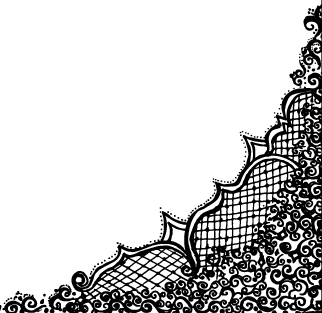
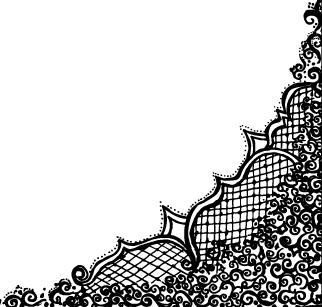
Make products page responsive, show loaders in admin page.

Changed region(s): [[0.0311, 0.0, 1.0, 0.9967]]

diff --git a/src/app/admin/products/admin-product-details/admin-product-details.component.html b/src/app/admin/products/admin-product-details/admin-product-details.component.html
@@ -1,42 +1,45 @@
-<div *ngIf="product" class="box-with-shadow product-details-wrapper">
-  <table>
-    <tr>
-      <th>Brand</th>
-      <td>{{product.brand}}</td>
-    </tr>
-    <tr>
-      <th>Category</th>
-      <td>{{product.subcategory.category.name}}</td>
-    </tr>
-    <tr>
-      <th>Subcategory</th>
-      <td>{{product.subcategory.name}}</td>
-    </tr>
-    <tr>
-      <th>Description</th>
-      <td>{{product.description}}</td>
-    </tr>
-    <tr>
-    <tr>
-      <th>Material</th>
-      <td>{{product.material}}</td>
-    </tr>
-    <tr>
-      <th>Price</th>
-      <td>${{product.price}}</td>
-    </tr>
-    <tr>
-      <th>Price with Discount</th>
-      <td><span *ngIf="product.discount">${{product.discount}}</span><span *ngIf="!product.discount">-</span></td>
-    </tr>
-  </table>
-  <div class="btn-container">
-    <div class="btn-wrapper">
-      <app-button [text]="'Change'" routerLink="./change"></app-button>
+<div class="box-with-shadow product-details-wrapper">
+  <app-spinner *ngIf="loading"></app-spinner>
+  <ng-container *ngIf="!loading">
+    <table>
+      <tr>
+        <th>Brand</th>
+        <td>{{product.brand}}</td>
+      </tr>
+      <tr>
+        <th>Category</th>
+        <td>{{product.subcategory.category.name}}</td>
+      </tr>
+      <tr>
+        <th>Subcategory</th>
+        <td>{{product.subcategory.name}}</td>
+      </tr>
+      <tr>
+        <th>Description</th>
+        <td>{{product.description}}</td>
+      </tr>
+      <tr>
+      <tr>
+        <th>Material</th>
+        <td>{{product.material}}</td>
+      </tr>
+      <tr>
+        <th>Price</th>
+        <td>${{product.price}}</td>
+      </tr>
+      <tr>
+        <th>Price with Discount</th>
+        <td><span *ngIf="product.discount">${{product.discount}}</span><span *ngIf="!product.discount">-</span></td>
+      </tr>
+    </table>
+    <div class="btn-container">
+      <div class="btn-wrapper">
+        <app-button [text]="'Change'" routerLink="./change"></app-button>
+      </div>
+      <div class="btn-wrapper">
+        <app-button [text]="'Delete'" routerLink="./delete"></app-button>
+      </div>
     </div>
-    <div class="btn-wrapper">
-      <app-button [text]="'Delete'" routerLink="./delete"></app-button>
-    </div>
-  </div>
+  </ng-container>
 </div>
 

diff --git a/src/app/admin/products/admin-products/admin-products.component.html b/src/app/admin/products/admin-products/admin-products.component.html
@@ -1,21 +1,22 @@
 <div class="products-box box-with-shadow">
-  <table>
-    <tr>
-      <th class="image">Image</th>
-      <th class="brand">Brand</th>
-      <th class="category">Category</th>
-      <th class="subcategory">Subcategory</th>
-      <th class="price">Price</th>
-      <th class="discount">With Discount</th>
-      <th class="quantity">Quantity</th>
-    </tr>
-    <ng-container *ngIf="products.length">
-      <tr app-admin-product *ngFor="let product of products | paginate: { itemsPerPage: itemsPerPage, currentPage: page, totalItems: totalAmount }"
-          [product]="product"
-          (click)="openProductDetails(product.id)"></tr>
-    </ng-container>
-  </table>
-  <pagination-controls *ngIf="totalAmountStockProducts > itemsPerPage" (pageChange)="pageChanged($event)"></pagination-controls>
-  <a class="btn-add" (click)="onEditProduct()"><i class="material-icons">add</i></a>
+    <table>
+      <tr>
+        <th class="image">Image</th>
+        <th class="brand">Brand</th>
+        <th class="category">Category</th>
+        <th class="subcategory">Subcategory</th>
+        <th class="price">Price</th>
+        <th class="discount">With Discount</th>
+        <th class="quantity">Quantity</th>
+      </tr>
+      <ng-container *ngIf="products.length && !loading">
+        <tr app-admin-product *ngFor="let product of products | paginate: { itemsPerPage: itemsPerPage, currentPage: page, totalItems: totalAmount }"
+            [product]="product"
+            (click)="openProductDetails(product.id)"></tr>
+      </ng-container>
+      <app-spinner *ngIf="loading"></app-spinner>
+    </table>
+    <pagination-controls *ngIf="totalAmountStockProducts > itemsPerPage" (pageChange)="pageChanged($event)"></pagination-controls>
+    <a class="btn-add" (click)="onEditProduct()"><i class="material-icons">add</i></a>
 </div>
 

diff --git a/src/app/UI/loader/loader.component.ts b/src/app/UI/loader/loader.component.ts
@@ -1,4 +1,4 @@
-import { Component, OnInit, OnDestroy, AfterViewInit } from '@angular/core';
+import { Component, OnInit, OnDestroy } from '@angular/core';
 import { Subscription } from 'rxjs';
 
 import { LoaderService } from './loader.service';
@@ -9,7 +9,7 @@ import { LoaderState } from './loader';
   templateUrl: './loader.component.html',
   styleUrls: ['./loader.component.scss']
 })
-export class LoaderComponent implements OnInit, OnDestroy, AfterViewInit {
+export class LoaderComponent implements OnInit, OnDestroy {
 
   show = false;
 
@@ -18,11 +18,7 @@ export class LoaderComponent implements OnInit, OnDestroy, AfterViewInit {
   constructor(private loaderService: LoaderService) { }
 
   ngOnInit() {
-
-  }
-
-  ngAfterViewInit() {
-     this.subscription = this.loaderService.loaderState
+  this.subscription = this.loaderService.loaderState
     .subscribe((state: LoaderState) => {
       setTimeout(() => {
         this.show = state.show;

diff --git a/src/app/shop/products/products.component.scss b/src/app/shop/products/products.component.scss
@@ -1,16 +1,14 @@
 .wrapper {
   display: flex;
   width: 100%;
-  margin-top: 70px;
-  margin-left: 30px;
+  margin-top: 50px;
   .content-wrapper {
     width: calc(100% - 200px);
     text-align: center;
-    margin-right: 40px;
     .content {
       width: 100%;
       display: grid;
-      grid-template-columns: repeat(auto-fill, minmax(210px, 1fr));
+      grid-template-columns: repeat(auto-fill, minmax(190px, 1fr));
       grid-template-rows: auto [last-line];
       font-family: 'goudy_old_stylebold_italic';
     }
@@ -37,8 +35,20 @@
         box-shadow: 0 3px 1px -2px rgba(0,0,0,.2), 0 2px 2px 0 rgba(0,0,0,.14), 0 1px 5px 0 rgba(0,0,0,.12);
       }
     }
-
   }
-
 }
 
+@media screen and (max-width:768px){
+  .wrapper {
+    flex-direction: column;
+    .content-wrapper {
+      width: 100%;
+    }
+  }
+}
+
+@media screen and (max-width:450px){
+  .wrapper {
+    align-items: center;
+  }
+}

diff --git a/src/app/navbar/navbar.component.ts b/src/app/navbar/navbar.component.ts
@@ -46,7 +46,10 @@ export class NavbarComponent implements OnInit, OnDestroy, AfterViewInit {
               private store: Store<fromRoot.AppState>) {}
 
   ngOnInit() {
-    this.getCurrentUser();
+     this.authService.tokenVerify().subscribe((res) => {
+      this.imageUrl = res['user']['image'];
+      this.username = res['user']['email'].substring(0, res['user']['email'].lastIndexOf('@'));
+    });
     this.subscription = this.storageService.watchStorage().subscribe(() => {
         this.getCurrentUser();
     });
@@ -82,7 +85,6 @@ export class NavbarComponent implements OnInit, OnDestroy, AfterViewInit {
 
   getCurrentUser() {
     this.imageUrl = this.authService.getUserImage();
-    this.username = this.authService.getUsername();
   }
 
   openModalRegister() {

diff --git a/src/app/admin/products/admin-products/admin-products.component.ts b/src/app/admin/products/admin-products/admin-products.component.ts
@@ -16,6 +16,7 @@ export class AdminProductsComponent implements OnInit,OnDestroy {
   products: any[];
   order:string = 'desc';
   totalAmountStockProducts: number;
+  loading:boolean;
   constructor(private store: Store<fromRoot.AppState>,
               private router: Router, private route:ActivatedRoute) {
   }
@@ -26,6 +27,7 @@ export class AdminProductsComponent implements OnInit,OnDestroy {
     this.store.pipe(select(fromRoot.getProducts)).pipe(
       untilComponentDestroyed(this)
     ).subscribe((state) => {
+      this.loading = state.fetchProductsFromStockLoading;
       this.products = state.productsFromStock;
       this.totalAmountStockProducts = state.totalAmount;
     });

diff --git a/src/app/admin/products/admin-product-details/admin-product-details.component.ts b/src/app/admin/products/admin-product-details/admin-product-details.component.ts
@@ -12,6 +12,7 @@ import {untilComponentDestroyed} from "@w11k/ngx-componentdestroyed";
 })
 export class AdminProductDetailsComponent implements OnInit, OnDestroy {
   product: any;
+  loading: boolean;
   constructor(private store: Store<fromRoot.AppState>, private route:ActivatedRoute) { }
 
   ngOnInit() {
@@ -22,6 +23,7 @@ export class AdminProductDetailsComponent implements OnInit, OnDestroy {
     this.store.pipe(select(fromRoot.getProducts)).pipe(
       untilComponentDestroyed(this)
     ).subscribe((state) => {
+      this.loading = state.productDetailsLoading;
       this.product = state.product;
     });
   }

diff --git a/src/app/UI/corners/corners.component.scss b/src/app/UI/corners/corners.component.scss
@@ -1,7 +1,7 @@
 .corner {
   position: absolute;
-  width: 170px;
-  height: 162px;
+  width:110px;
+  height:105px;
   background-size: contain;
   background-repeat: no-repeat;
   z-index: 10;
@@ -14,9 +14,7 @@
 }
 .bottom-right-corner {
   background-image: url('/assets/land-bor-b-r.png');
-  width: 188px;
-  height: 183px;
-  bottom: -7px;
+  bottom: -2px;
   right: 0;
 }
 .top-left-corner {
@@ -30,12 +28,3 @@
   right: 0;
 }
 
-@media screen and (max-width: 768px) {
-  .corner {
-    width:110px;
-    height:105px;
-  }
-  .bottom-right-corner {
-    right: -2px;
-  }
-}

diff --git a/src/app/shop/products/filter/filter.component.scss b/src/app/shop/products/filter/filter.component.scss
@@ -3,7 +3,7 @@
 .filters {
   width: 200px;
   font-family: 'goudy_old_stylebold_italic';
-  margin-right: 50px;
+  margin-right: 20px;
   margin-bottom: 70px;
   .filter-title {
     border-bottom: 2px solid black;
@@ -35,6 +35,21 @@
       transform: translateY(-50%);
       width: 17px;
       height: 20px;
+    }
+  }
+}
+
+@media screen and (max-width:768px){
+  .filters {
+    margin-bottom: 25px;
+    margin-left: 10px;
+  }
+}
+
+@media screen and (max-width:450px){
+  .filters {
+    .container-search {
+      margin-top: 0;
     }
   }
 }

diff --git a/src/app/profile/profile.component.ts b/src/app/profile/profile.component.ts
@@ -27,8 +27,10 @@ export class ProfileComponent implements OnInit {
              private store: Store<fromRoot.AppState>) { }
 
   ngOnInit() {
-    this.imageUrl = this.authService.getUserImage();
-    this.username = this.authService.getUsername();
+    this.authService.tokenVerify().subscribe((res) => {
+      this.imageUrl = res['user']['image'];
+      this.username = res['user']['email'].substring(0, res['user']['email'].lastIndexOf('@'));
+    });
   }
 
   imageUrlHandler($event) {

diff --git a/src/app/shop/wishlist/wishlist.component.html b/src/app/shop/wishlist/wishlist.component.html
@@ -10,7 +10,7 @@
   </div>
   <ng-container *ngIf="wishlist.length">
     <header class="wishlist-header">
-      <div class="amount">{{totalNumOfProductsInWishlist}} PRODUCTS</div>
+      <div class="amount">{{totalNumOfProductsInWishlist}} PRODUCT(S)</div>
       <div class="text price">Price</div>
     </header>
     <app-wishlist-item *ngFor="let wishlistItem of wishlist"

diff --git a/src/app/UI/loader/loader.service.ts b/src/app/UI/loader/loader.service.ts
@@ -7,11 +7,11 @@ import { LoaderState } from './loader';
   providedIn: 'root'
 })
 export class LoaderService {
-  show;
   private loaderSubject = new Subject<LoaderState>();
   loaderState = this.loaderSubject.asObservable();
 
-  constructor() { }
+  constructor() {
+  }
 
   reveal() {
     this.loaderSubject.next(<LoaderState>{ show: true });
